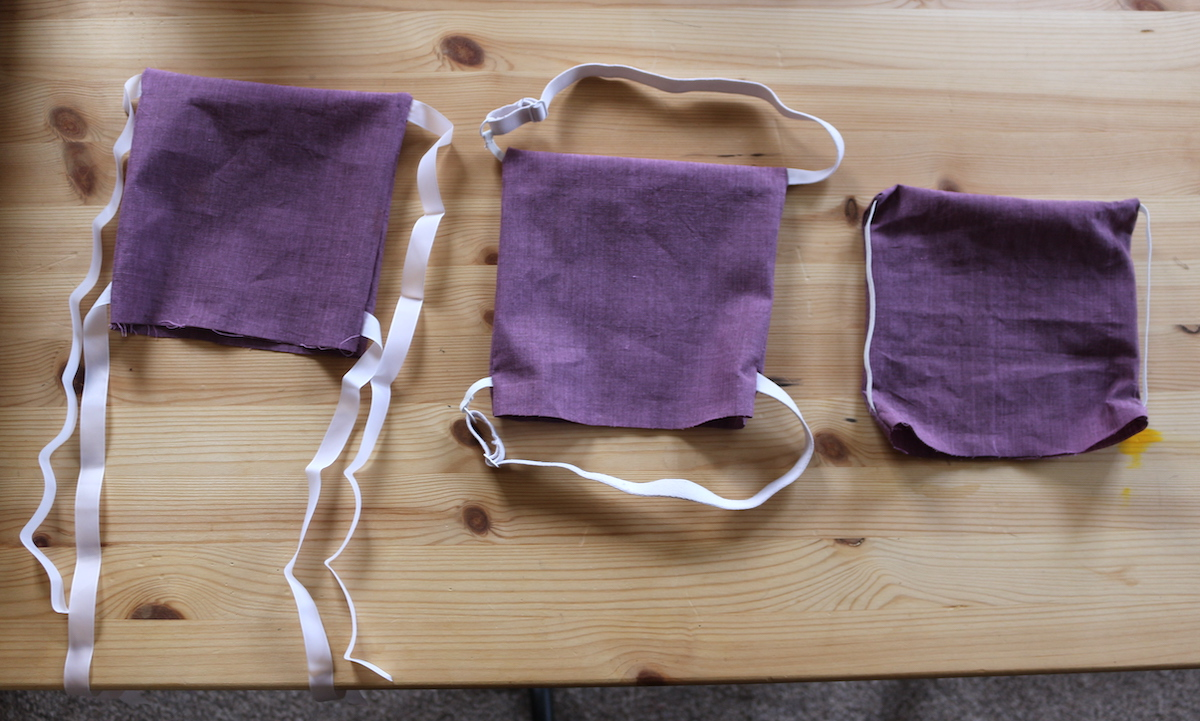
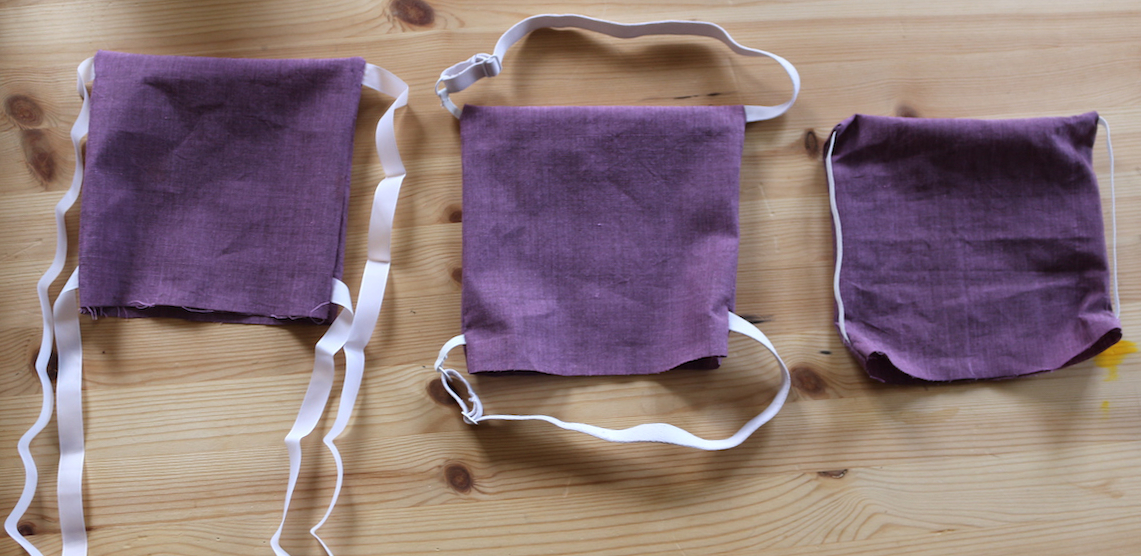
Typos and improvement

diff --git a/creative/mask.php b/creative/mask.php
@@ -11,7 +11,7 @@
         
     <main class="narrow">
     
-        <h3 id="introduction">A photo tutorial for the fabric face mask pattern designed by me and Cassian.</h3>
+        <h3 id="introduction">A photo tutorial for the fabric face mask pattern designed by me and <a href="https://twitter.com/cassolotl">Cassian</a>.</h3>
         
         <article>
         
@@ -34,10 +34,10 @@
 	        	<ul>
 	        		<li>Option A, Ear loops. Easiest to put on and off, can feel less secure and less comfortable when worn for a long time.</li>
 	        		<li>Option B, Head straps. A bit awkward to put on and off, good for adjusting the fit and positioning, good use of old bra straps!</li>
-	        		<li>Option C, Tie ribbons. Most versatile for tying around the head or into ear loops, can come untied when worn for a long time. </li>
+	        		<li>Option C, Tie ribbons. Most versatile for tying around the head or into ear loops, can come untied when worn for a long time, may fray or degrade with wear and washing. </li>
         		</ul>
         		
-        		<p> Most of the construction is the same for all the fastenings, but step 2 will vary and you'll need slightly different materials.</p>
+        		<p> Most of the construction is the same for all the fastenings, they just take slightly different materials.</p>
         		
 	        	<p>You'll need some equipment:</p>
 	        	<ul>
@@ -56,19 +56,21 @@
         		<ul>
         			<li>A 36cm × 20cm rectangle of fabric. The best fabric is high thread count woven cotton, like the type used for quilting. Whatever colour or pattern you like.</li>
         			<li>Some thread. Whatever colour you like, to match or contrast your fabric.</li>
-        			<li>A 9cm length of non-rusting wire (optional but recommended).</li>
+        			<li>A 9cm length of non-rusting wire (optional but recommended). 4mm flat aluminium jewelery wire is ideal.</li>
 					<li>One of:
 						<ul>
 							<li>For Option A, Ear loops: Two 16cm lengths of elastic. About 5mm wide elastic ribbon is ideal. Whatever colour you like, to match or contrast your fabric.</li>
 							<li>For Option B, Head straps: Two reclaimed adjustable bra straps at least 40cm long. About 5-10mm wide straps are ideal. Whatever colour you like, to match or contrast your fabric.</li>
-							<li>For Option C, Tie ribbons: Four 40cm lengths of ribbon. About 5-10mm wide is ideal, and preferably with a ridged texture to hold knots better. Whatever colour you like, to match or contrast your fabric. To stop the ribbons fraying, melt the ends by waving them momentarily in a candle or lighter flame.</li>
+							<li>For Option C, Tie ribbons: Four 40cm lengths of ribbon. About 5-10mm wide is ideal, and preferably with a ridged texture to hold knots better. Whatever colour you like, to match or contrast your fabric. To stop the ribbons fraying, singe the ends by waving them momentarily in a candle or lighter flame.</li>
 						</ul>
 					</li>
 				</ul>
 				
-				<p>Fold the rectangle of fabric in half along the long edge, with the good side of the fabric on the <em>inside</em>. The fabric in these photos is symmetrical, but if yours only has the pattern on one side then put that on the inside.</p>
+				<p>Fold the rectangle of fabric in half along the long edge, with the good side of the fabric on the <em>inside</em>. The fabric in these photos is reversible, but if yours only has the pattern on one side then put that on the inside.</p>
 				
-				<p>The next steps will be easier if you iron the fabric in this folded shape. Add a few pins along the sides to keep it together and flat. For the rest of the instructions, the folded edge will be the top and the open edge will be the bottom.</p>
+				<p>If you have one, iron the fabric in this folded shape, it will make the next steps easier.</p>
+				
+				<p>Add a few pins along the sides to keep it together and flat. For the rest of the instructions, the folded edge will be the top and the open edge will be the bottom.</p>
 				
         		<figure><a href="/images/creative/IMG_5191.JPG" class="lightbox" title="Folded and pinned rectangle of purple fabric"><img class="embedded" src="/images/creative/IMG_5191.JPG"/></a></figure>
 				
@@ -94,7 +96,7 @@
 	        	
         		<figure><a href="/images/creative/Ear loops diagram.JPG" class="lightbox" title="Diagram showing ear loops positioned between layers of fabric"><img class="embedded" src="/images/creative/Ear loops diagram.JPG"/></a></figure>
 	        	
-	        	<p>Slide one piece of elastic in through the opening at the bottom. Then push one end of it out the side, near the top corner. Leave just a couple of mm space from the top edge, and about 5mm of the elastic extending out of the side, then pin in place.</p>
+	        	<p>Slide one piece of elastic in through the opening at the bottom. Then push one end of it out the side, near the top corner. Leave just a couple of millimetres space from the top edge, and about 5mm of the elastic extending out of the side, then pin in place.</p>
 	        	
         		<figure><a href="/images/creative/IMG_5194.JPG" class="lightbox" title="End of elastic sticking out between fabric layers"><img class="embedded" src="/images/creative/IMG_5194.JPG"/></a></figure>
 	        	
@@ -106,7 +108,7 @@
 	        	
 	        	<figure><a href="/images/creative/IMG_5195.JPG" class="lightbox" title="End of elastic sticking out between crumpled fabric layers"><img class="embedded" src="/images/creative/IMG_5195.JPG"/></a></figure>
 	        	
-	        	<p>Repeat the same operation with the second elastic on the other side. When you're done you'll have a horrifying crumpled mess like this:</p>
+	        	<p>Repeat the same operation with the second elastic on the other side. When you're done you'll have a horrifying crumpled mess like this (don't worry, it will make sense again later):</p>
 	        	
 	        	<figure><a href="/images/creative/IMG_5198.JPG" class="lightbox" title="Crumpled pinned fabric"><img class="embedded" src="/images/creative/IMG_5198.JPG"/></a></figure>
 	        
@@ -116,7 +118,7 @@
 	        	
 	        	<figure><a href="/images/creative/Head straps diagram.jpg" class="lightbox" title="Diagram showing head straps positioned between layers of fabric"><img class="embedded" src="/images/creative/Head straps diagram.jpg"/></a></figure>
 	        
-	        	<p>Slide one strap in through the opening at the bottom. Then push one end of it out of the side, near the top corner. Leave just a couple of mm from the top edge, and about 5mm of the strap extending out of the side, then pin in place.</p>
+	        	<p>Slide one strap in through the opening at the bottom. Then push one end of it out of the side, near the top corner. Leave just a couple of millimetres from the top edge, and about 5mm of the strap extending out of the side, then pin in place.</p>
 	        	
 	        	<figure><a href="/images/creative/IMG_5211.JPG" class="lightbox" title="End of strap sticking out between fabric layers"><img class="embedded" src="/images/creative/IMG_5211.JPG"/></a></figure>
 	        
@@ -128,7 +130,7 @@
 	        	
 	        	<figure><a href="/images/creative/IMG_5214.JPG" class="lightbox" title="End of strap sticking out between bottom fabric layers"><img class="embedded" src="/images/creative/IMG_5214.JPG"/></a></figure>
 	        	
-	        	<p>Repeat with the other end of the strap on the other side, making sure not to twist it. When you're done you'll have a lumpy mess like this:</p>
+	        	<p>Repeat with the other end of the strap on the other side, making sure not to twist it. When you're done you'll have a lumpy mess like this (don't worry, it will make sense again later):</p>
 	        	
 	        	<figure><a href="/images/creative/IMG_5216.JPG" class="lightbox" title="Lumpy pinned fabric"><img class="embedded" src="/images/creative/IMG_5216.JPG"/></a></figure>
 	        
@@ -138,7 +140,7 @@
 	        	
 	        	<figure><a href="/images/creative/Tie ribbons diagram.JPG" class="lightbox" title="Diagram showing ribbons positioned between layers of fabric"><img class="embedded" src="/images/creative/Tie ribbons diagram.JPG"/></a></figure>
 	        
-	        	<p>Slide on piece of ribbon in through the opening at the bottom. Then push one end of it out of the side, near the top corner. Leave just a couple of mm from the top (folded) edge, and about 5mm of the ribbon extending out of the side, then pin in place.</p>
+	        	<p>Slide one piece of ribbon in through the opening at the bottom. Then push one end of it out of the side, near the top corner. Leave just a couple of millimetres from the top (folded) edge, and about 5mm of the ribbon extending out of the side, then pin in place.</p>
 	        	
 	        	<figure><a href="/images/creative/IMG_5226.JPG" class="lightbox" title="End of ribbon sticking out between fabric layers"><img class="embedded" src="/images/creative/IMG_5226.JPG"/></a></figure>
 	        
@@ -162,7 +164,7 @@
 	        	
 	        	<figure><a href="/images/creative/Side seam diagram.JPG" class="lightbox" title="Diagram showing line of stitching along the side of the mask"><img class="embedded" src="/images/creative/Side seam diagram.JPG"/></a></figure>
 	        
-	        	<p> Start a cm or two below the upper fastening, and sew a straight line over it until you reach the top edge. Then turn around and sew a straight line all the way back down to the bottom edge.</p>
+	        	<p> Start a centimetre or two below the upper fastening, and sew a straight line over it until you reach the top edge. Then turn around and sew a straight line all the way back down to the bottom edge.</p>
 	        	
 	        	<figure><a href="/images/creative/IMG_5200.JPG" class="lightbox" title="Side seam in progress under a sewing machine foot"><img class="embedded" src="/images/creative/IMG_5200.JPG"/></a></figure>
 	        
@@ -170,7 +172,7 @@
 	        	
 	        	<figure><a href="/images/creative/IMG_5201.JPG" class="lightbox" title="Hand spreading out fabric under a sewing machine foot"><img class="embedded" src="/images/creative/IMG_5201.JPG"/></a></figure>
 	        	
-	        	<p>Then turn once more and sew back again until a cm or two above the lower fastening. When you're done you'll have a straight line of stitching with two sets of loose threads, one near each of the fastenings.</p>
+	        	<p>Then turn once more and sew back again until a centimetre or two above the lower fastening. When you're done you'll have a straight line of stitching with two sets of loose threads, one near each of the fastenings.</p>
 	        	
 	        	<figure><a href="/images/creative/IMG_5203.JPG" class="lightbox" title="Finished side seam with loose threads"><img class="embedded" src="/images/creative/IMG_5203.JPG"/></a></figure>
 	        
@@ -218,7 +220,7 @@
         	
         		<h4 class="section">5. Bottom seam</h4>
         		
-        		<p>To finish the bottom, both raw edges of fabric need to be folded inwards together. It can be fiddly, but it's easiest if you start folding in the middle and then work out towards the sides.</p>
+        		<p>To finish the bottom, both raw edges of fabric need to be folded inwards together. It can be fiddly, but it's easiest if you start folding in the middle and then work out towards the sides. Ironing the side seams flat first can also help (although don't do that if you used synthetic ribbon!).</p>
         		
         		<figure><a href="/images/creative/IMG_5240.JPG" class="lightbox" title="Hand folding bottom edges inwards together"><img class="embedded" src="/images/creative/IMG_5240.JPG"/></a></figure>
         		
@@ -236,7 +238,7 @@
 			
 				<h4 class="section">6. Pleats</h4>
 				
-				<p>Pleats are scary if you haven't done them before, but there are lots of pictures and diagrams to help! There will be three pleats on the finished mask. Some patterns use lots of repeated measuring and ironing to get them perfectly lined up, but we found it more intuitive (and much less faff) to just approximate them by hand. It's not the end of the world if they aren't perfectly centred or exactly the same size.</p>
+				<p>Pleats are scary if you haven't done them before, but there are lots of pictures and diagrams to help! There will be three pleats on the finished mask. Some patterns use lots of repeated measuring and ironing to get them perfectly lined up, but we found it more intuitive (and much less faff) to just approximate them by hand. It's not the end of the world if they aren't perfectly centred or exactly the same size, you won't be able to tell when the mask is on anyway.</p>
 				
 				<p>To make each pleat, a pair of points on the fabric are brought together to touch, making a loop in between them. That loop gets flattened down so that there's a zigzag in the fabric, and then sewn over in place. If it helps, you can mark the six points on the edge of the mask before you start so that it's easier to keep track of what you're doing.</p>
 				
@@ -306,9 +308,9 @@
 				
 				<figure><a href="/images/creative/IMG_5261.JPG" class="lightbox" title="Nose wire pocket sealed by hand"><img class="embedded" src="/images/creative/IMG_5261.JPG"/></a></figure>
 
-				<p>Once the loose threads are dealt with, you have a finished and usable mask!</p>
+				<p>Once the loose threads are dealt with, you have a finished and usable mask!<span class="dot"></span</p>
 				
-				<figure><a href="/images/creative/IMG_5236.JPG" class="lightbox" title="Finished masks with each type of fastening"><img class="embedded" src="/images/creative/IMG_5236.JPG"/></a></figure>
+				<figure><a href="/images/creative/IMG_5263.JPG" class="lightbox" title="Finished masks with each type of fastening"><img class="embedded" src="/images/creative/IMG_5263.JPG"/></a></figure>
 
 				<figure><a href="/images/creative/IMG_5265.JPG" class="lightbox" title="Finished mask with the nose wire shaped and pleats expanded"><img class="embedded" src="/images/creative/IMG_5265.JPG"/></a></figure>
 				
